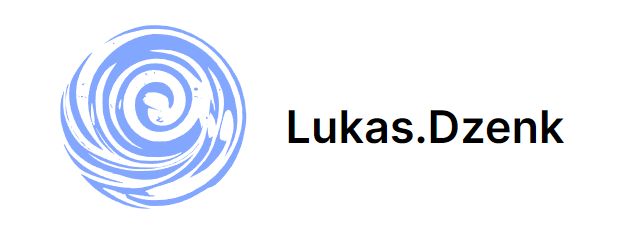
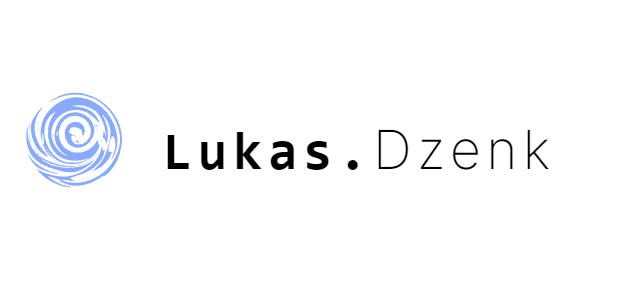
Added this website as a project item

Changed region(s): [[0.0303, 0.0843, 0.9076, 0.8434], [0.6051, 0.4217, 0.6354, 0.4498]]

diff --git a/data/projectsData.ts b/data/projectsData.ts
@@ -1,19 +1,28 @@
 const projectsData = [
   {
     title: 'Markdown header sorter',
-    description: `Copy and paste your text into the editor tool to sort your markdown sections alphabetically. Sort your entire text or select a single header level (#, ##, ...).`,
+    description: `Copy and paste your text into the editor tool to sort your markdown sections alphabetically. Sort your entire text or select a single header level (#, ##, ...).
+    [Vanilla JS]`,
     imgSrc: '/static/images/markdown-header-sorter-logo-android-chrome-512x512.png',
     href: 'https://lukasdzn.github.io/Markdown-header-sorter/',
   },
   {
     title: 'Markdown internal link checker',
-    description: `A Node JS script that parses .md files within "input" directory and prints out an array of broken URLs that were found.`,
-    imgSrc: '/static/images/internal-link-checker-logo-large1.png',
+    description: `A script that parses .md files within "input" directory and prints out an array of broken URLs that were found.
+    [TypeScript, Node JS]`,
+    imgSrc: '/static/images/internal-link-checker-logo-large.png',
     href: 'https://github.com/LukasDZN/markdownUrlChecker',
   },
   {
+    title: 'This blog',
+    description: `[TypeScript, Next JS]`,
+    imgSrc: '/static/images/website-logo-and-title-large.png',
+    href: 'https://github.com/LukasDZN/LukasBlog',
+  },
+  {
     title: 'Redmine task notifications',
-    description: `Chrome extension for creating Redmine (project management system) status alerts (Vanilla JS).`,
+    description: `Chrome extension for creating Redmine (project management system) status alerts.
+    [Vanilla JS]`,
     imgSrc: '/static/images/work-in-progress-logo-large.png',
     href: 'https://github.com/LukasDZN/redmineTaskAlertChromeExtension',
   },
